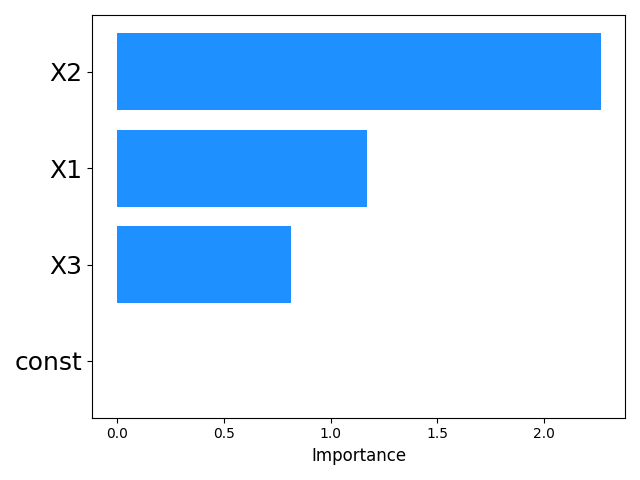
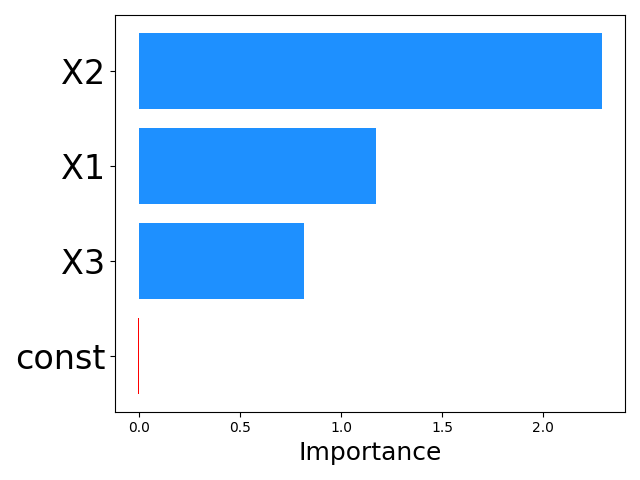
add force mf param to be 1 in tree models for sim-confounder

Changed region(s): [[0.0625, 0.0625, 0.5938, 0.6562], [0.1562, 0.8438, 0.9688, 0.9688], [0.0312, 0.7188, 0.1875, 0.7812]]

diff --git a/sim-confounder.py b/sim-confounder.py
@@ -13,7 +13,7 @@ from sklearn.model_selection import train_test_split, GridSearchCV
 from Functions.gen_data import add_noise, extract_coef
 from Functions.plotting import plot_impurity, plot_permutation, plot_SHAP, plot_SHAP_force, plot_PDP, plot_ICE, \
     check_corr, print_tree, plot_multiple_permutations, plot_SHAP_ordered
-from Functions.pred import define_model
+from Functions.pred import define_model, define_model_confounder
 from PyALE import ale
 
 # =================================
@@ -23,7 +23,7 @@ from PyALE import ale
 # supported model classes for pred_model: "enet" for elastic net regression, "lasso" for lasso regression,
 # ..."tree" for a decision tree, and "rf" for a random forest
 
-pred_models = ["lasso", "enet", "rf", "tree"] # string defining the prediction model to use (see above for alternatives)
+pred_models = ["rf", "lasso", "enet", "tree"] # string defining the prediction model to use (see above for alternatives)
 n_samples = 1000 # number of samples in generated data
 test_size = 0.5 # ratio of training:test data
 cv = 5 # number of cross-validation splits
@@ -33,6 +33,7 @@ explain_data_instance_num = 0 # the row index indicating which instance in the d
 decimal_places = 2 # integer used for rounding
 seed = 93 # the random seed (used in the data generating process, splitting process, the model fitting process, and the permutation importance calculations)
 results_path = "Results confounder-sim/Interpretation/"
+force_max_features_1 = True
 # -------------------------- Run Simulations --------------------------
 
 if __name__ == '__main__':
@@ -83,8 +84,17 @@ if __name__ == '__main__':
         X_train, X_test, y_train, y_test = train_test_split(X, y, random_state=seed, test_size=test_size, shuffle=True)
 
         # Define model
-        model, param_grid = define_model(pred_model=pred_model, fixed_seed=seed)
+        model, param_grid = define_model_confounder(pred_model=pred_model, fixed_seed=seed)
 
+        if force_max_features_1 == True:
+            if (pred_model == "tree") or (pred_model == "rf"):
+                param_grid["max_features"] = [None]
+                mf = "_mf1"
+            else:
+                mf = ""
+        else:
+            mf = ""
+        print(param_grid)
         # Perform CV on train data to tune model hyper-parameters
         grid_search = GridSearchCV(estimator=model,
                                    param_grid=param_grid,
@@ -121,13 +131,13 @@ if __name__ == '__main__':
         perm_imp_df = pd.DataFrame(dict)
         # flip so most important at top on graph
         perm_imp_df.sort_values(by="Importance", ascending=True, inplace=True, axis=0)
-        plot_permutation(perm_imp_df=perm_imp_df, save_path=save_path, save_name=f"{pred_model}_permutation")
+        plot_permutation(perm_imp_df=perm_imp_df, save_path=save_path, save_name=f"{pred_model}_permutation{mf}")
 
         # b) multiple permutations (plot with variance bars)
         result = permutation_importance(model, X_test, y_test, n_repeats=permutations,
                                         random_state=seed, n_jobs=2, scoring=scoring)
         plot_multiple_permutations(result=result, vars=vars, save_path=save_path, order=True,
-                                   save_name=f"{pred_model}_permutation_with_bars.png", title="")
+                                   save_name=f"{pred_model}_permutation_with_bars{mf}.png", title="")
 
         ## 2) Tree-based impurity importance
         if (pred_model == 'rf') or (pred_model == "tree"):
@@ -143,7 +153,7 @@ if __name__ == '__main__':
             # plot
             plot_impurity(impurity_imp_df=impurity_imp_df,
                           save_path=save_path,
-                          save_name=f"{pred_model}_impurity")
+                          save_name=f"{pred_model}_impurity{mf}")
 
         ## 3) SHAP importance
         save_path = results_path + "SHAP/"
@@ -180,11 +190,11 @@ if __name__ == '__main__':
         for method, shap_dict in shap_results_dict.items():
             plot_SHAP_ordered(shap_dict,
                       save_path= save_path,
-                      save_name=f"{pred_model}_shap_ORDERED_{method}")
+                      save_name=f"{pred_model}_shap_ORDERED_{method}{mf}")
 
         # b) Example of SHAP local force plot for data instance i:
         plot_SHAP_force(i=explain_data_instance_num, X_test=pd.DataFrame(X_test, columns=vars), model=model,
-                        save_path=save_path, save_name=f"{pred_model}_shap_local", pred_model=pred_model,
+                        save_path=save_path, save_name=f"{pred_model}_shap_local{mf}", pred_model=pred_model,
                         title="local explanation")
 
         ## 4) Partial Dependence Plot (PDP)
@@ -195,21 +205,24 @@ if __name__ == '__main__':
         features = [f1, (f1, f2)]
         save_path= results_path + "PDP/"
         X_test = pd.DataFrame(X_test, columns=vars)
-        plot_PDP(save_path=save_path, pred_model=pred_model, model=model, X_test=X_test, features=features)
+        plot_PDP(save_path=save_path, pred_model=pred_model, model=model, X_test=X_test,
+                 features=features, save_name=f"pdp{mf}")
 
         ## 5) Individual Conditional Expectation (ICE) plot
         save_path= results_path + "ICE/"
-        plot_ICE(save_path=save_path, pred_model=pred_model, model=model, X_test=X_test, feature=f1)
+        save_name = f"{pred_model}_ice{mf}.png"
+        plot_ICE(save_path=save_path, pred_model=pred_model, model=model, X_test=X_test,
+                 feature=f1, save_name=save_name)
 
         ## 6) Accumulated Local Effects (ALE) graph
         save_path = results_path + "ALE/"
         grid = 50
         # a) one variable:
         ale_eff = ale(X=X_test, model=model, feature=[f1], grid_size=grid, include_CI=False)
-        plt.savefig(save_path + f"{pred_model}_1D_ale.png")
+        plt.savefig(save_path + f"{pred_model}_1D_ale{mf}.png")
         # b) two variables:
         ale_eff_2D = ale(X=X_test, model=model, feature=[f1, f2], grid_size=grid)
-        plt.savefig(save_path + f"{pred_model}_2D_ale.png")
+        plt.savefig(save_path + f"{pred_model}_2D_ale{mf}.png")
 
         ## 7) Local Interpretable Model-agnostic Explanations (LIME)
         save_path = results_path + "LIME/"
@@ -221,14 +234,14 @@ if __name__ == '__main__':
         # Create a plot from the explanation
         fig = exp.as_pyplot_figure()
         plt.tight_layout()
-        plt.savefig(save_path + f'{pred_model}_lime.png')
+        plt.savefig(save_path + f'{pred_model}_lime{mf}.png')
 
         ## 8) Print decision tree structure (here, for visual purposes only)
         if (pred_model == 'rf') or (pred_model == "tree"):
             save_path = results_path + "Tree/"
             # pre-define depth parameter (as tree is for visual purposes only)
             print_tree(X_test=X_test, y_test=y_test, max_depth=3, feature_names=vars,
-                       fontsize=8, save_path=save_path, save_name="example_dt_structure")
+                       fontsize=8, save_path=save_path, save_name=f"example_dt_structure{mf}")
 
     run_time = dt.datetime.now() - start_time
     print(f'Finished! Run time: {run_time}')

diff --git a/Functions/plotting.py b/Functions/plotting.py
@@ -5,8 +5,11 @@ import matplotlib.pyplot as plt
 import seaborn as sns
 from sklearn.inspection import PartialDependenceDisplay
 
-font_size = 16
-label_size = 20
+# font_size = 16
+# label_size = 20
+font_size = 12
+label_size = 14
+figsize = (2.7, 1.5)
 
 def plot_impurity(impurity_imp_df, save_path, save_name, figsize=(8, 3.5)):
     """
@@ -57,7 +60,7 @@ def plot_permutation(perm_imp_df, save_path, save_name, figsize=(8, 3.5)):
     return
 
 
-def plot_SHAP_ordered(shap_values, save_path, save_name, variable_order=['X3', 'X2', 'X1'], figsize=(8, 3.5)):
+def plot_SHAP_ordered(shap_values, save_path, save_name, variable_order=['X3', 'X2', 'X1'], figsize=figsize):
     """
     Plots ordered SHAP importance from dataframe
     :param shap_values: dataframe of importance values with a "Feature" and "Importance" column
@@ -72,7 +75,8 @@ def plot_SHAP_ordered(shap_values, save_path, save_name, variable_order=['X3', '
     plt.barh(shap_values["Feature"], shap_values["Importance"], color="dodgerblue", )
     ax.set_yticklabels(shap_values["Feature"])
     ax.set_title(" ")
-    ax.set_xlabel('Importance', fontsize=font_size)
+    ax.set_xlim(0, 2.5)
+    ax.set_xlabel('', fontsize=font_size)
     ax.tick_params(axis='y', labelsize=label_size)
     fig.tight_layout()
     plt.savefig(save_path + save_name + ".png")
@@ -82,7 +86,7 @@ def plot_SHAP_ordered(shap_values, save_path, save_name, variable_order=['X3', '
     return
 
 
-def plot_multiple_permutations(result, save_name, save_path, vars, figsize=(8, 3.5),
+def plot_multiple_permutations(result, save_name, save_path, vars, figsize= figsize,
                                order=False, title= 'Permutation Importances (test set)',
                                variable_order=['X3', 'X2', 'X1']):
     """
@@ -95,11 +99,12 @@ def plot_multiple_permutations(result, save_name, save_path, vars, figsize=(8, 3
     :return:
     """
     sorted_indices = result.importances_mean.argsort()
-    if order:
+    fig, ax = plt.subplots(figsize=figsize)
+    if order == True:
         # Filter out variables present in data and sort them according to the order
         sorted_indices = [vars.index(var) for var in variable_order if var in vars]
+        ax.set_xlim(0, 1.5)
 
-    fig, ax = plt.subplots(figsize=figsize)
     plt.barh(range(len(sorted_indices)), result.importances_mean[sorted_indices],
              xerr=result.importances_std[sorted_indices], color="dodgerblue")
     plt.yticks(range(len(sorted_indices)), np.array(vars)[sorted_indices])
@@ -116,7 +121,7 @@ def plot_multiple_permutations(result, save_name, save_path, vars, figsize=(8, 3
 
 
 def plot_SHAP(shap_dict, col_list, plot_type, n_features,
-              save_path, save_name, title="", figsize=(8, 3.5),
+              save_path, save_name, title="", figsize= figsize,
                      order=False, variable_order=['X3', 'X2', 'X1', 'const']):
     """
     Plots SHAP values from a dictionary of values
@@ -132,6 +137,8 @@ def plot_SHAP(shap_dict, col_list, plot_type, n_features,
     plt.figure(figsize=figsize)
     if order == True:
         shap.plots.bar(shap_dict, show=False, max_display=n_features, order=variable_order)
+        ax = plt.gca()
+        ax.set_xlim(0, 2.5)
     else:
         shap.summary_plot(shap_dict, feature_names=col_list, show=False,
                           plot_type=plot_type, max_display=n_features)
@@ -191,7 +198,8 @@ def plot_PDP(pred_model, model, X_test, features, save_path, save_name = "pdp", 
 
 
 
-def plot_ICE(pred_model, model, X_test, feature, save_path, figsize=(8, 3.5)):
+def plot_ICE(pred_model, model, X_test, feature, save_path, figsize=(8, 3.5),
+             save_name=None):
     """
     :param pred_model: string containing name of prediction model
     :param model: the specified model
@@ -200,11 +208,14 @@ def plot_ICE(pred_model, model, X_test, feature, save_path, figsize=(8, 3.5)):
     :param save_path: file path where plot should be saved
     :return:
     """
+    if save_name is None:
+        save_name = '{}_ice.png'.format(pred_model)
+
     fig, ax = plt.subplots(figsize=figsize)
     g = PartialDependenceDisplay.from_estimator(model, X_test, [feature], kind='both')
     g.plot()
     plt.tight_layout()
-    plt.savefig(save_path + '{}_ice.png'.format(pred_model), bbox_inches='tight')
+    plt.savefig(save_path + save_name, bbox_inches='tight')
     return
 
 

diff --git a/Functions/pred.py b/Functions/pred.py
@@ -28,3 +28,30 @@ def define_model(pred_model, fixed_seed):
         print("Error: please define pred_model param as one of 'enet', 'lasso', 'tree', or 'rf'")
         breakpoint()
     return model, param_grid
+
+
+def define_model_confounder(pred_model, fixed_seed):
+    """
+    # Defines model and corresponding parameter grid for training
+    :param pred_model: string, either: "enet" for elastic net regression, "lasso" for lasso regression,
+    "tree" for a decision tree, or "rf" for a random forest
+    :param fixed_seed: integer defining random seed
+    :return: untrained sklearn model, a corresponding parameter grid containing parameter values which will used to train
+    """
+    from Params.Grids_confounder import enet_param_grid, lasso_param_grid, rf_param_grid, tree_param_grid
+    if pred_model == "enet":
+        model = ElasticNet(random_state=fixed_seed)
+        param_grid = enet_param_grid
+    elif pred_model == "lasso":
+        model = Lasso(random_state=fixed_seed)
+        param_grid = lasso_param_grid
+    elif pred_model == "rf":
+        model = RandomForestRegressor(random_state=fixed_seed)
+        param_grid = rf_param_grid
+    elif pred_model == "tree":
+        model = DecisionTreeRegressor(random_state=fixed_seed)
+        param_grid = tree_param_grid
+    else:
+        print("Error: please define pred_model param as one of 'enet', 'lasso', 'tree', or 'rf'")
+        breakpoint()
+    return model, param_grid

diff --git a/Params/Grids_confounder.py b/Params/Grids_confounder.py
@@ -10,6 +10,15 @@ lasso_param_grid = {"tol": [0.001],
                    "alpha": [0.01, 0.2, 0.5, 1, 1.5, 2]
                    }
 
+# rf_param_grid = {"min_samples_split": [2, 4, 6],
+#                  "max_depth": [5, 10, 20],
+#                  "n_estimators": [50, 100, 250],
+#                  "max_features": [0.3, 0.6, None]}
+#
+# tree_param_grid = {"min_samples_split": [2, 4, 6],
+#                  "max_depth": [5, 10, 20],
+#                  "max_features": [0.3, 0.6, None]}
+
 rf_param_grid = {"min_samples_split": [2, 4, 6],
                  "max_depth": [5, 10, 20],
                  "n_estimators": [50, 100, 250],
